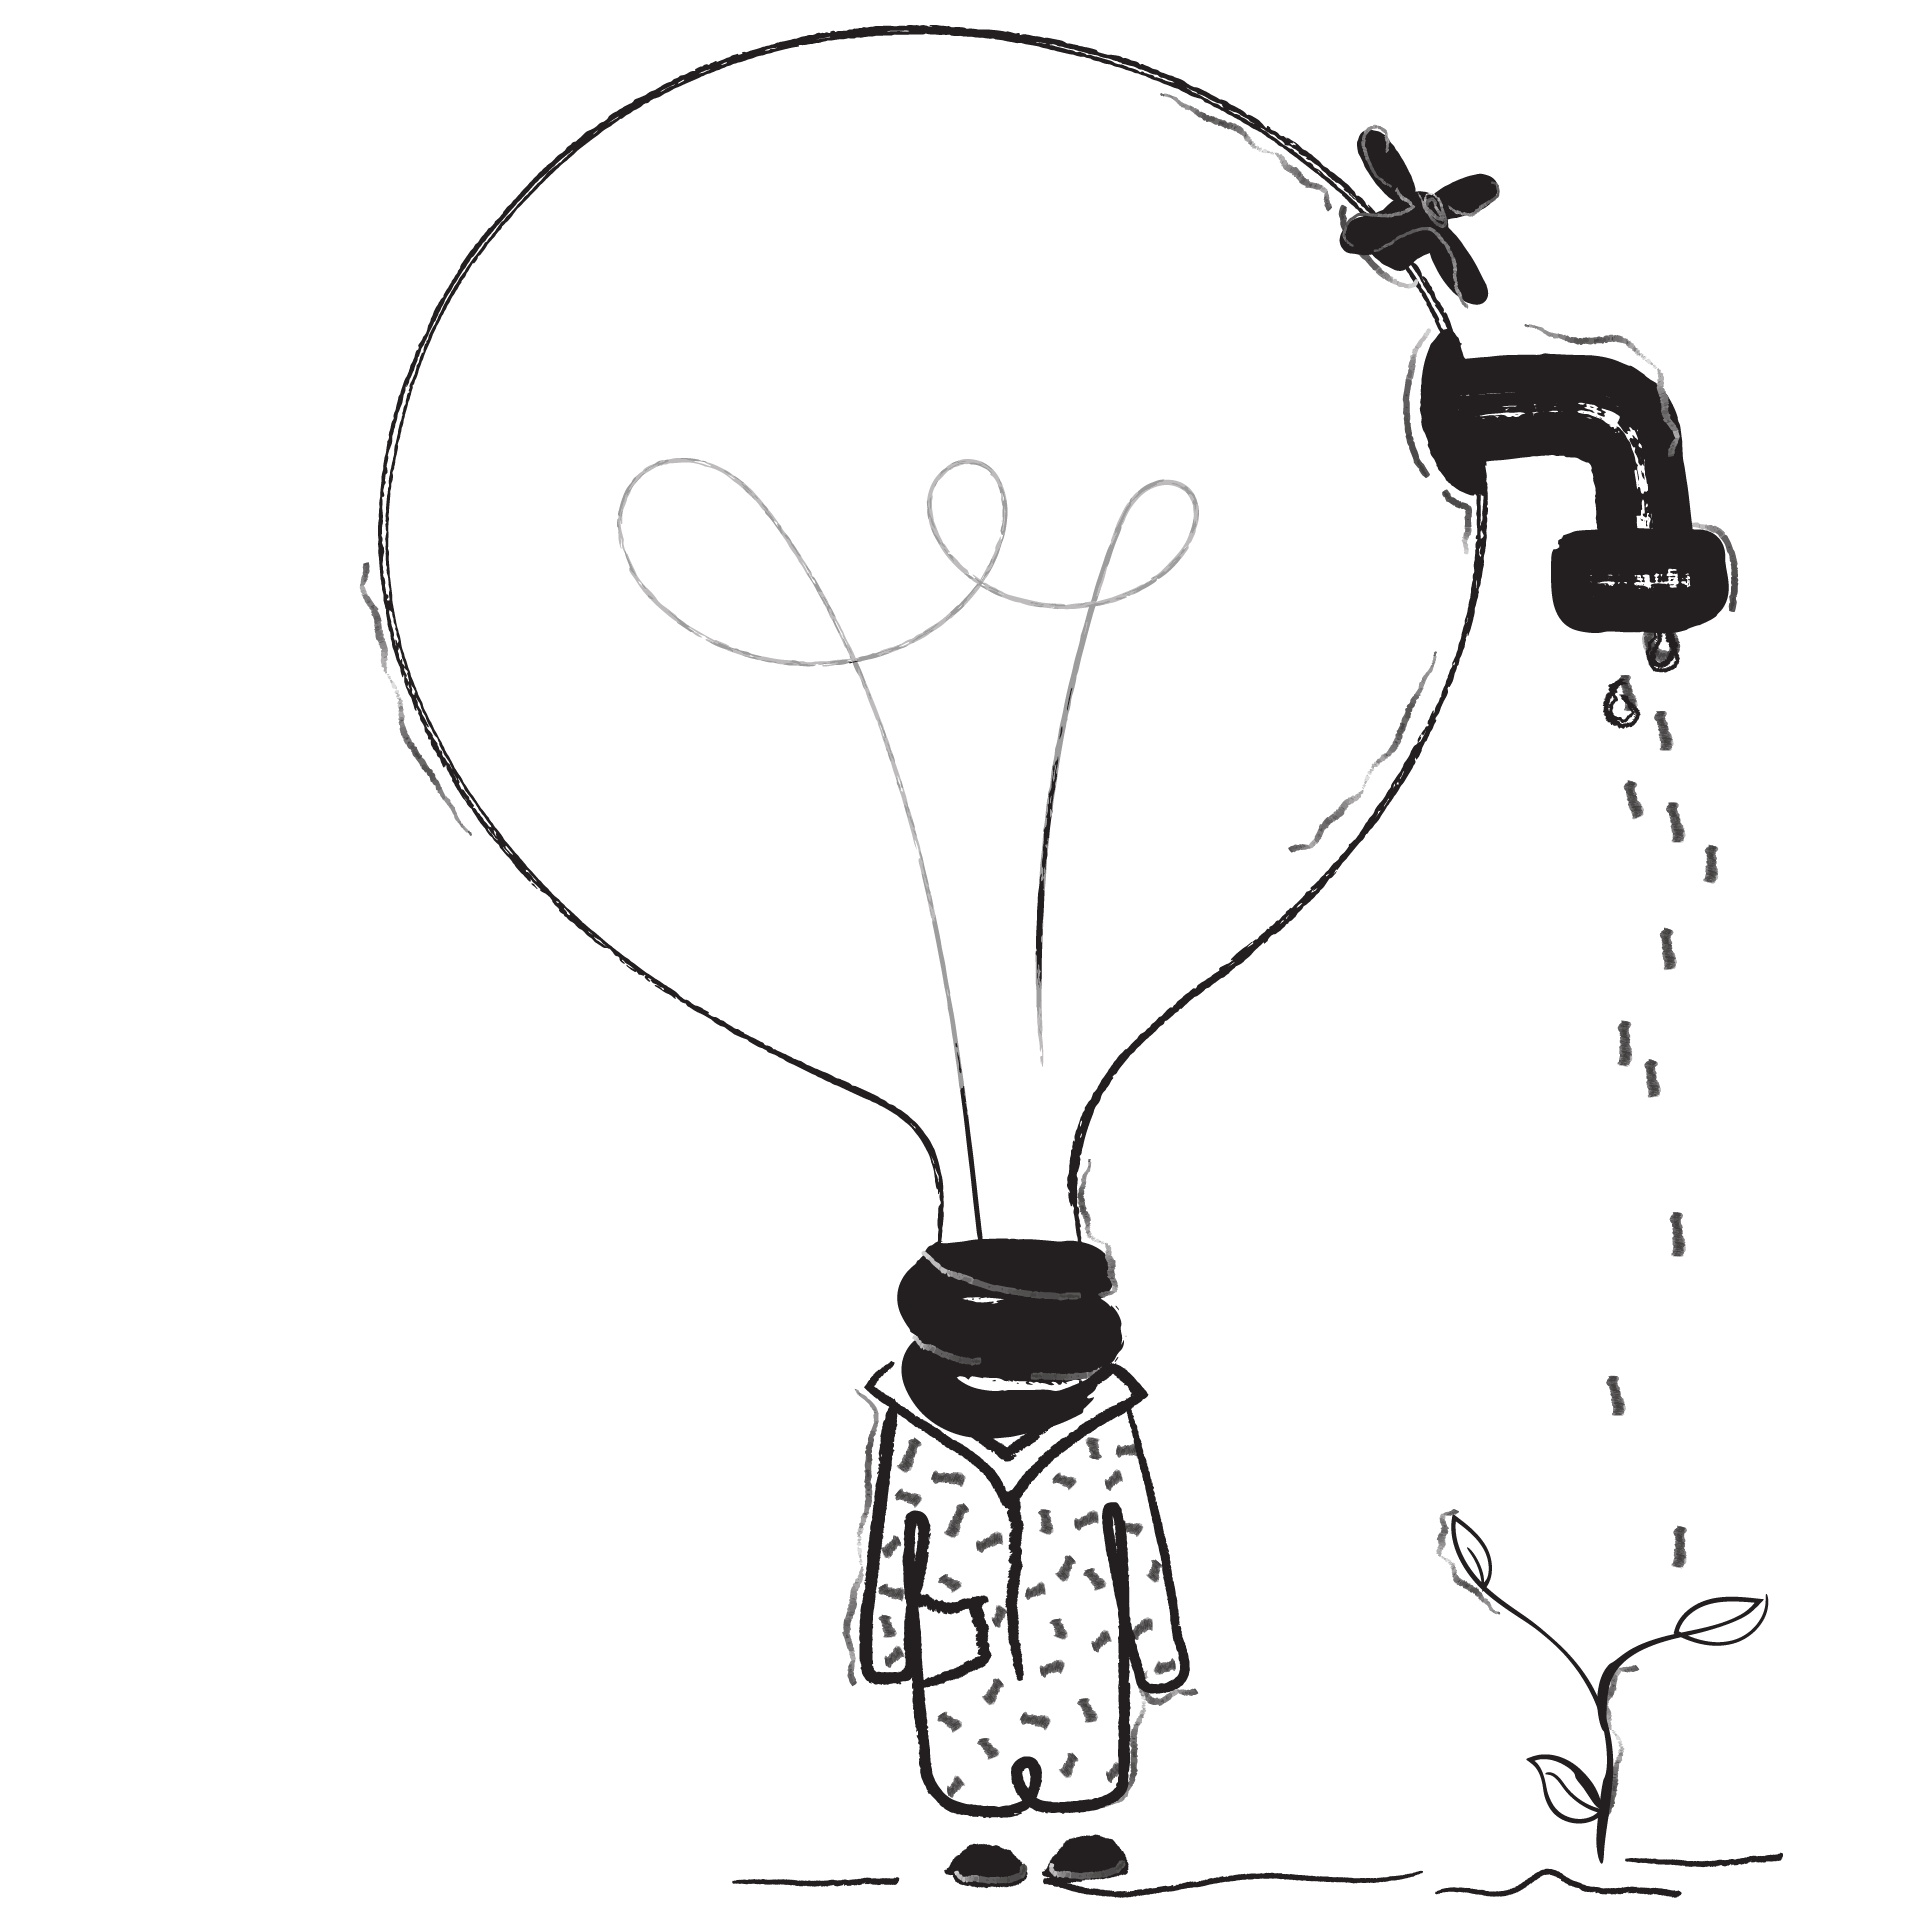
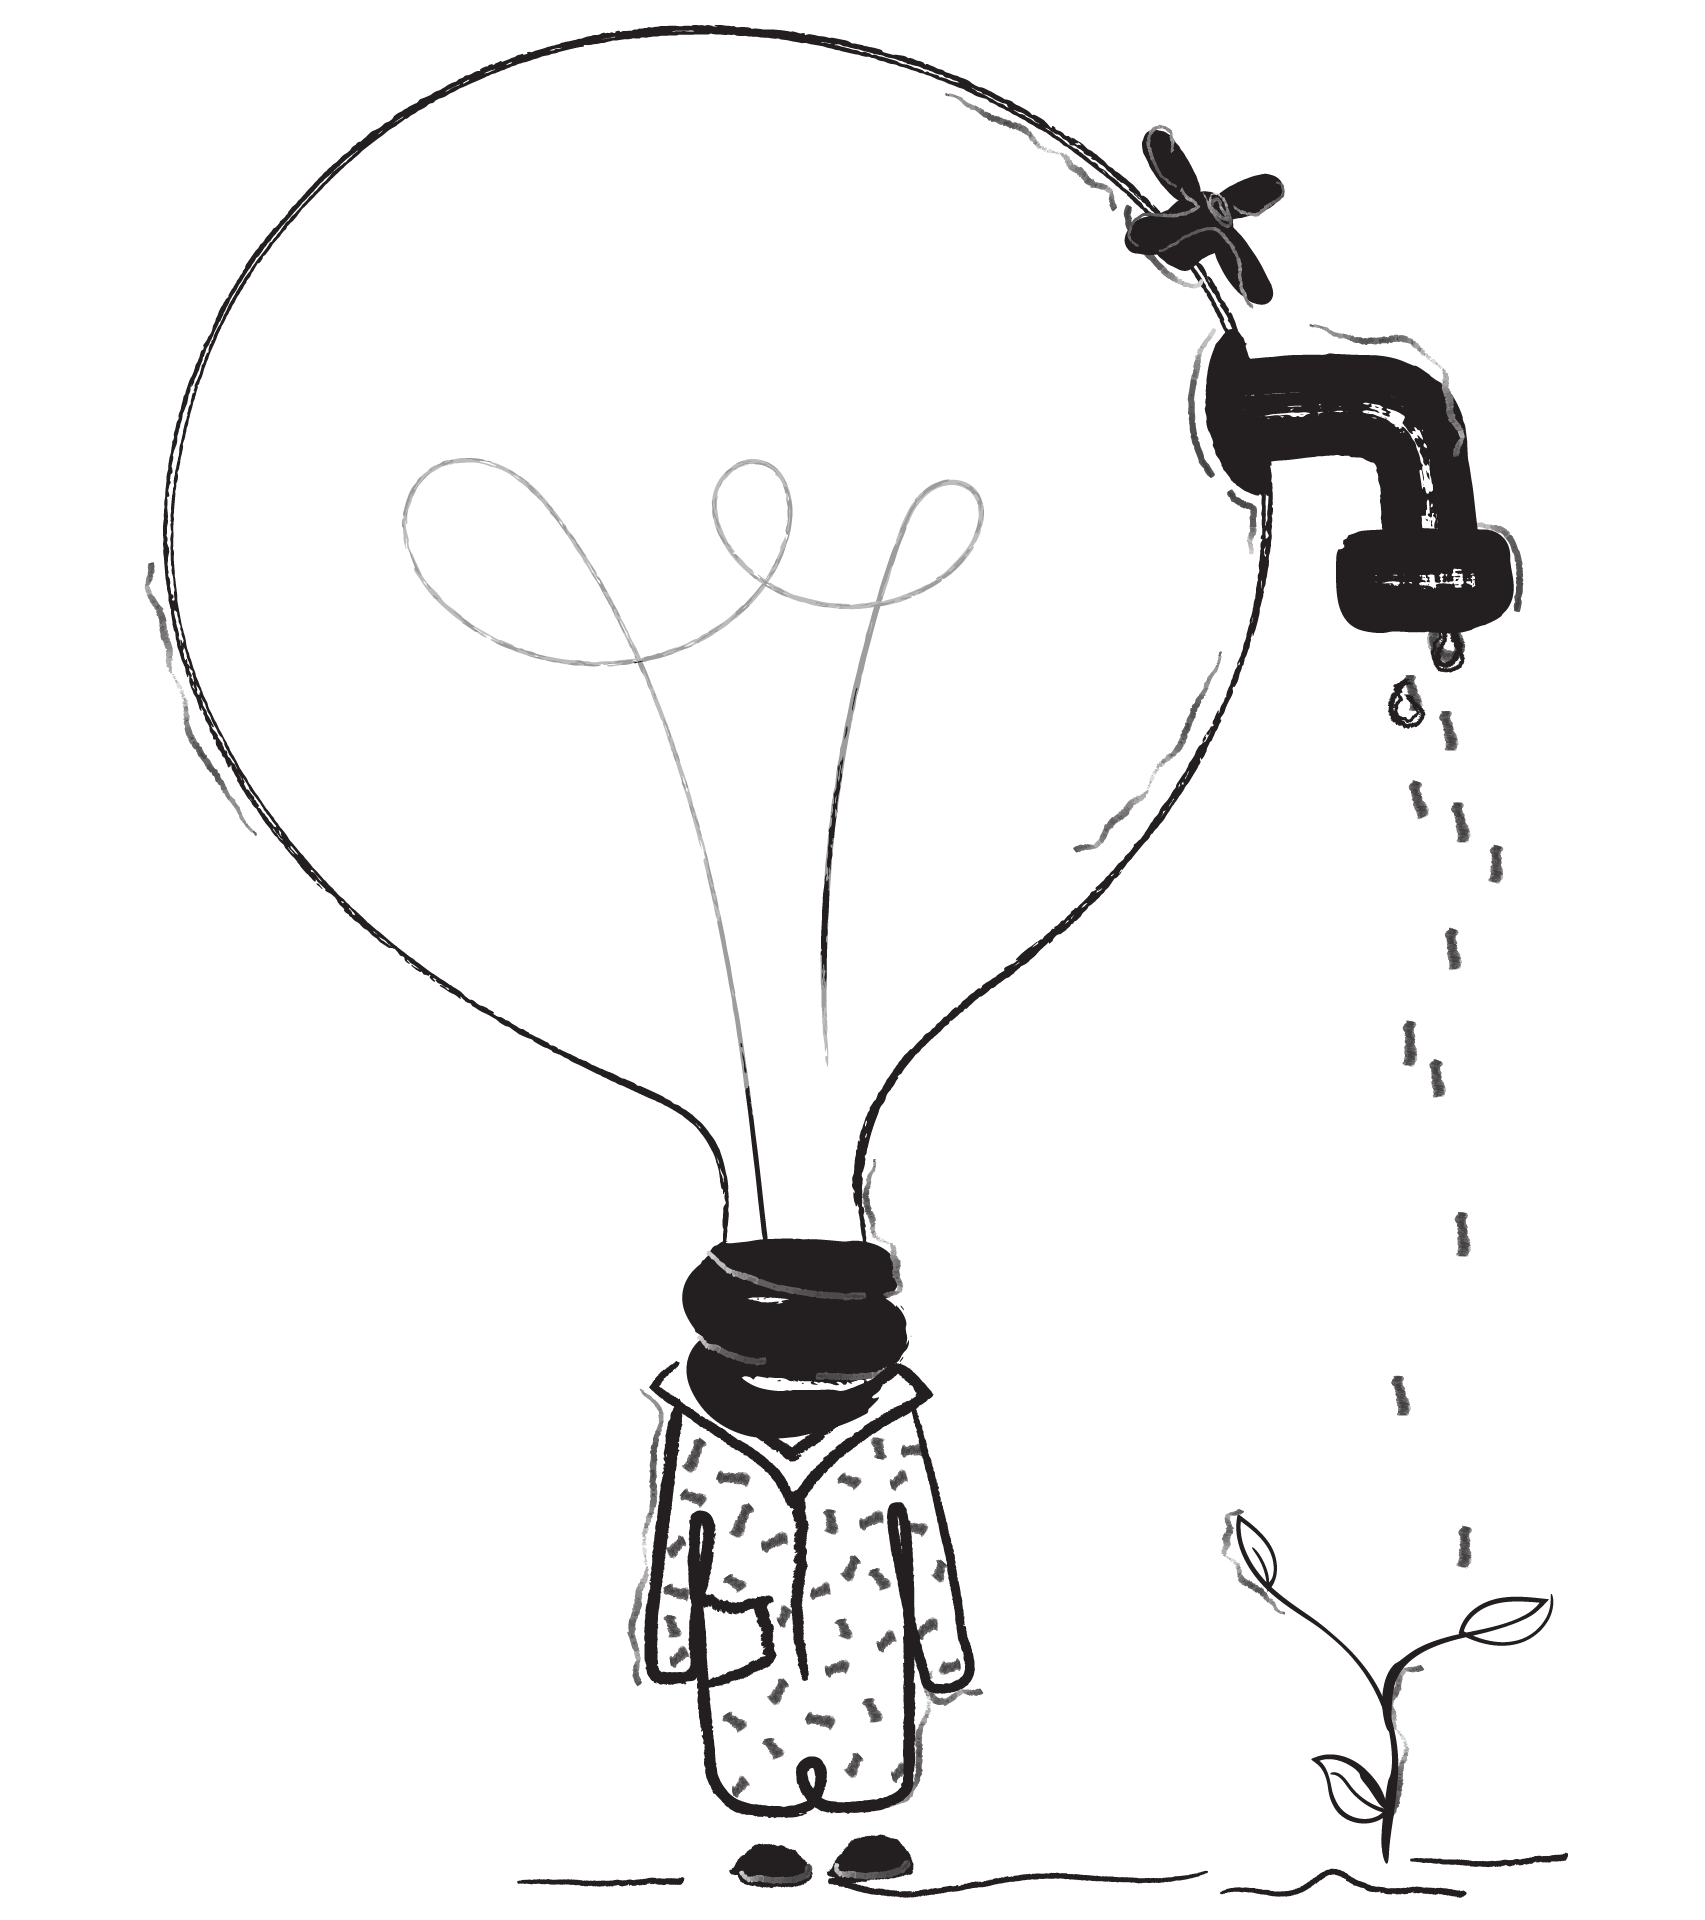
fixing ideal plant

diff --git a/src/containers/About.js b/src/containers/About.js
@@ -47,8 +47,8 @@ export default function About() {
     <div className="Discover">
 
       <Container maxWidth="md" className={classes.header}>
-	      <Grid container direction="row">
-	      	<Grid container item direction="column" justify="center"spacing={2} md={6}>
+	      <Grid container direction="row" justify="center">
+	      	<Grid container item direction="column" justify="center" spacing={2} md={6}>
             <Grid item>
   	      		<Typography component="h4" variant="h4" align="left" color="textPrimary" gutterBottom>
   	      		About GoodGlobe
@@ -61,7 +61,7 @@ export default function About() {
             </Grid>
 	      	</Grid>
           <Grid item md={6}>
-            <LazyLoadImage height="504" src={ideaPlant} alt="idea watering plant" className={classes.aboutImage} />
+            <LazyLoadImage height="100%" src={ideaPlant} alt="idea watering plant" className={classes.aboutImage} />
           </Grid>
 	      </Grid>
       </Container>
